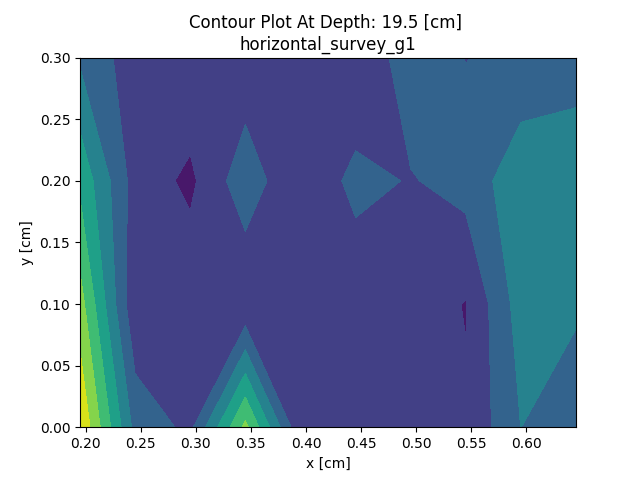
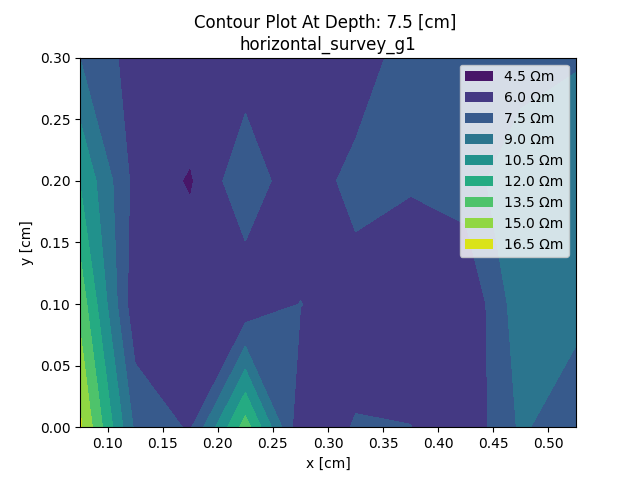
updated plot labels and added ledgend

diff --git a/contour.py b/contour.py
@@ -4,9 +4,10 @@ import pandas as pd
 import numpy as np 
 
 def main():
-    plot_contour("horizontal_survey_g1.csv",19.5)
+    plot_contour("horizontal_survey_g1.csv",7.5)
     plot_contour("horizontal_survey_g2.csv",19.5)
     plot_contour("horizontal_survey_g3.csv",19.5)
+
 def plot_contour(file,depth):
     """
     takes file name that should be in csv format x, y, z with z being a value at x and y and plots a contour
@@ -19,7 +20,11 @@ def plot_contour(file,depth):
     Y_u = np.sort(contour_data.y.unique())
     X,Y = np.meshgrid(X_u,Y_u)
     fig, ax = plt.subplots(1, 1) 
-    ax.contourf(X, Y, Z) 
+    # C = ax.contour(X, Y, Z) 
+    # plt.clabel(C, inline =1, fontsize=10)
+    C = ax.contourf(X, Y, Z) 
+    fill_label, labels = C.legend_elements()
+    ax.legend(fill_label,[f"{L:.{1}f}"+ " Ωm" for L in C.levels])
     fig_name = file[0:-4]      
     ax.set_title('Contour Plot At Depth: '+depth+' [cm] \n'+fig_name) 
     ax.set_xlabel('x [cm]') 
